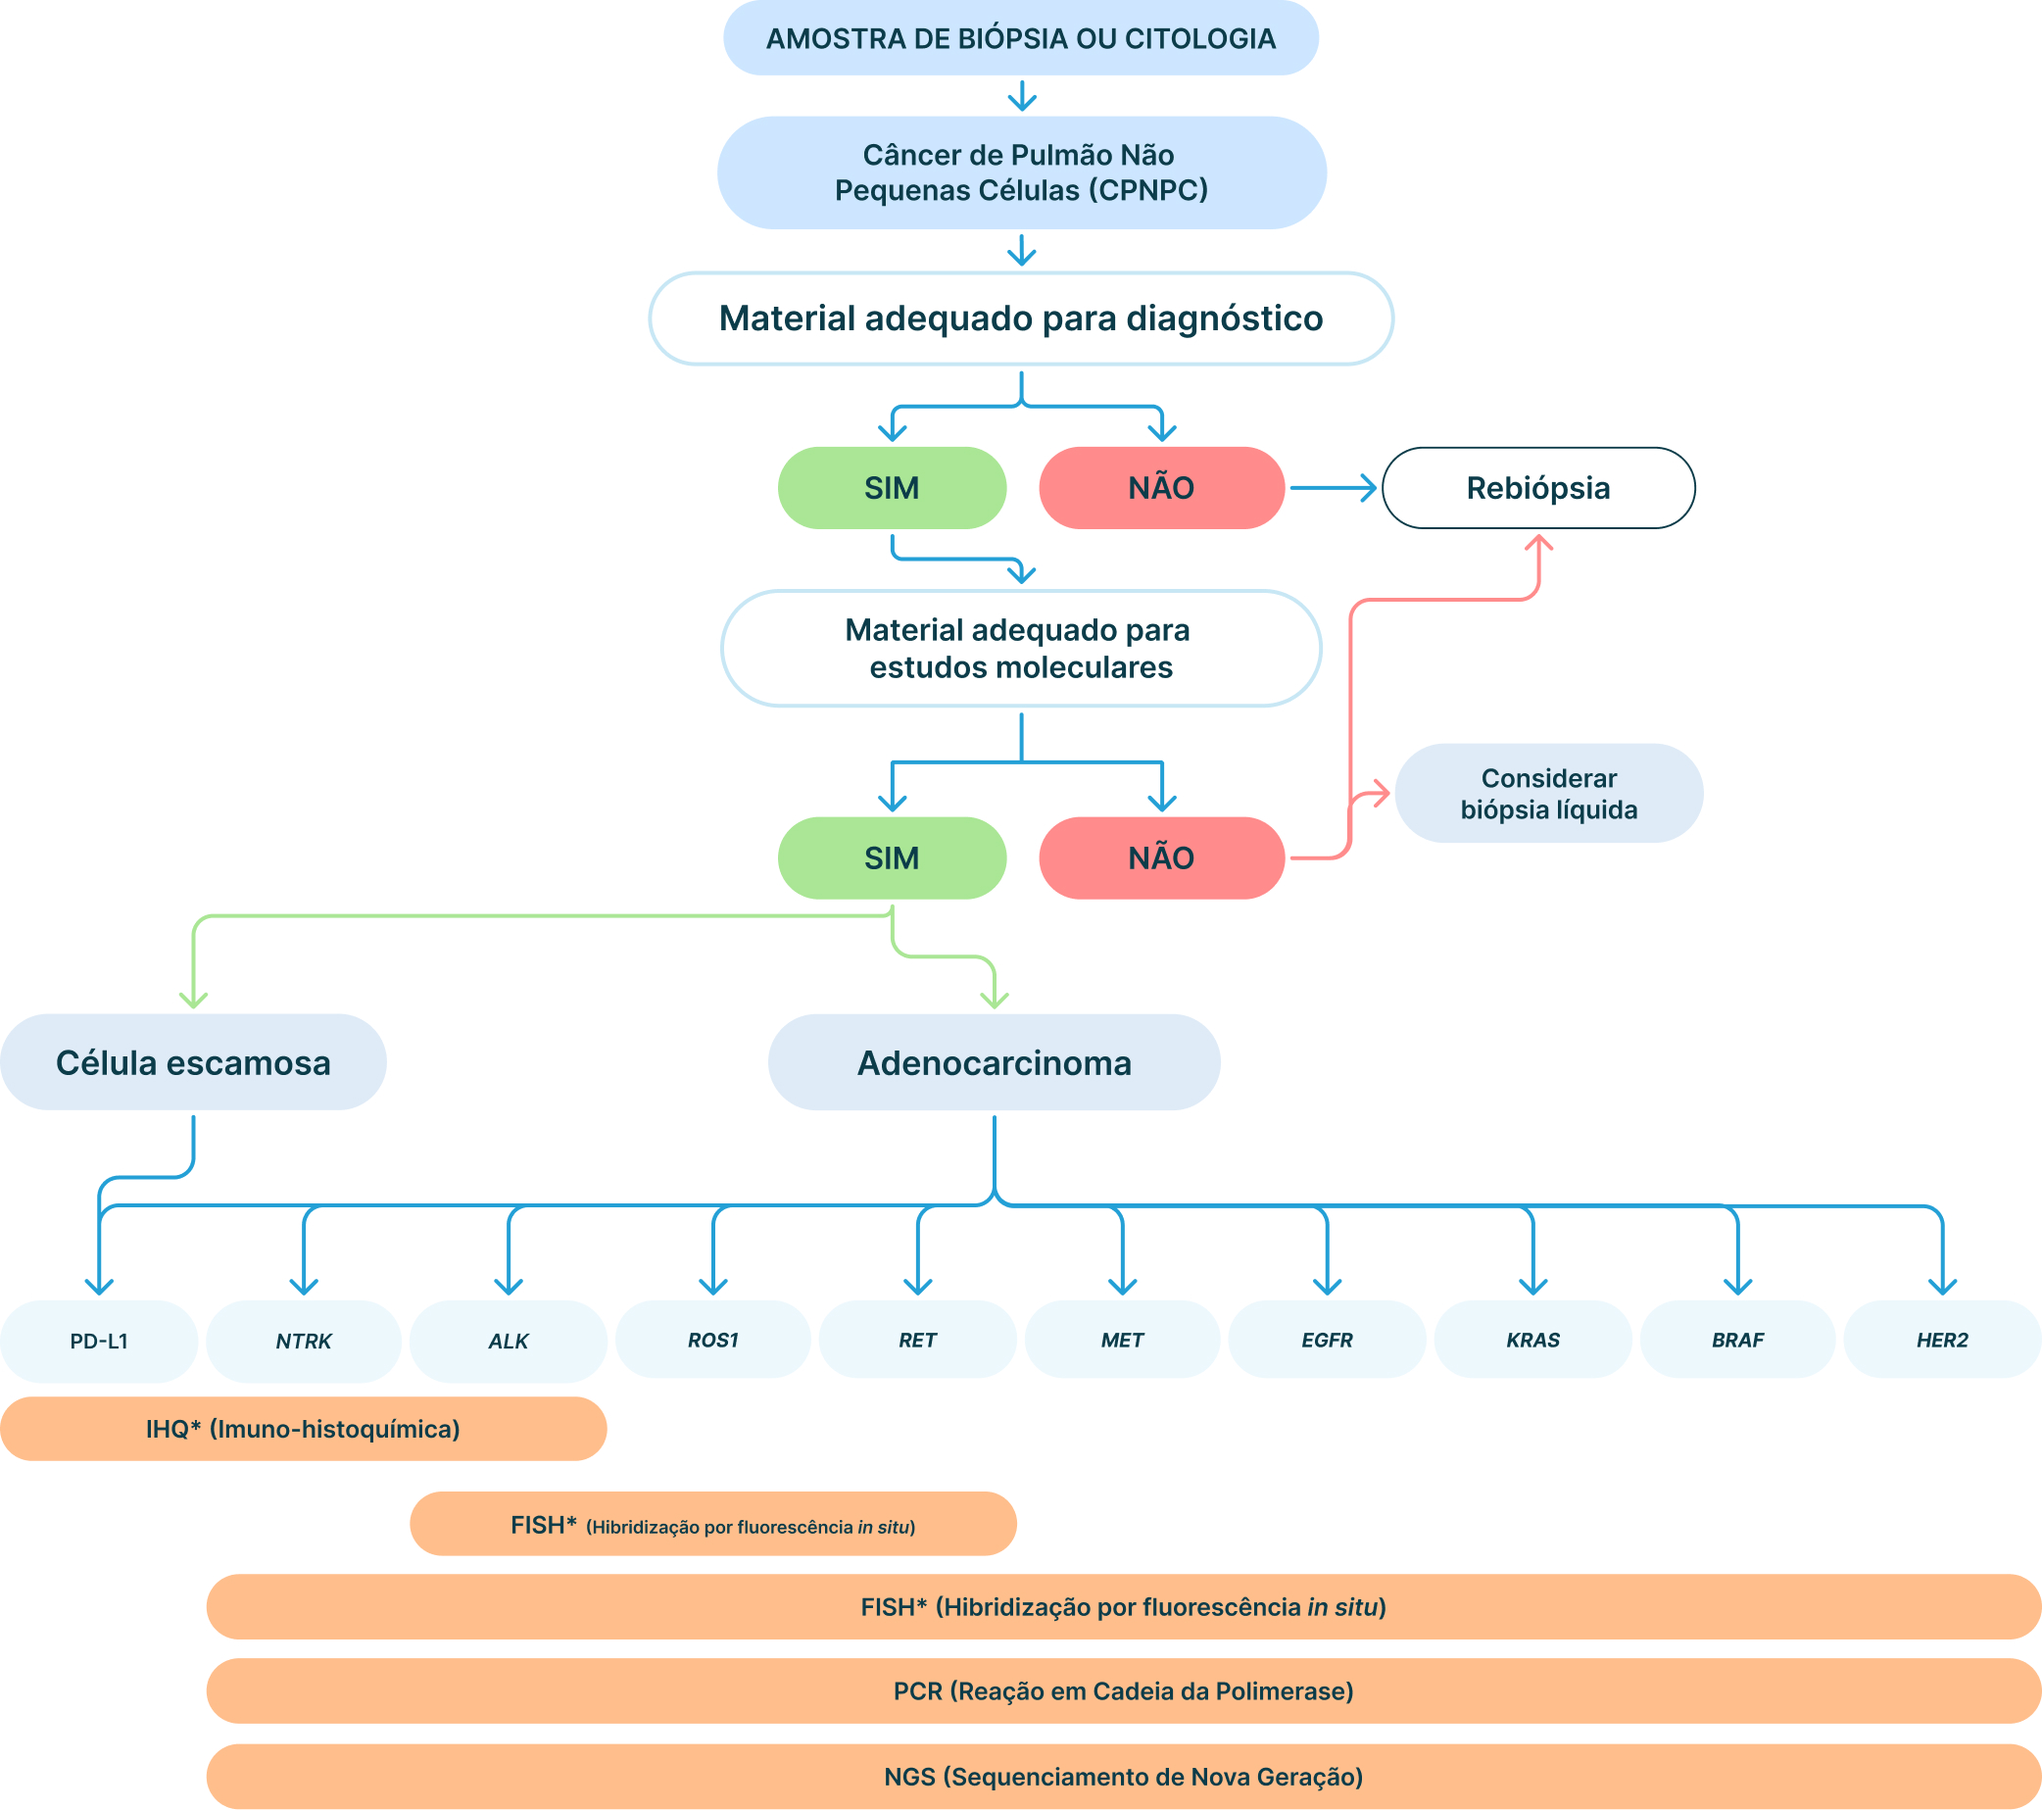
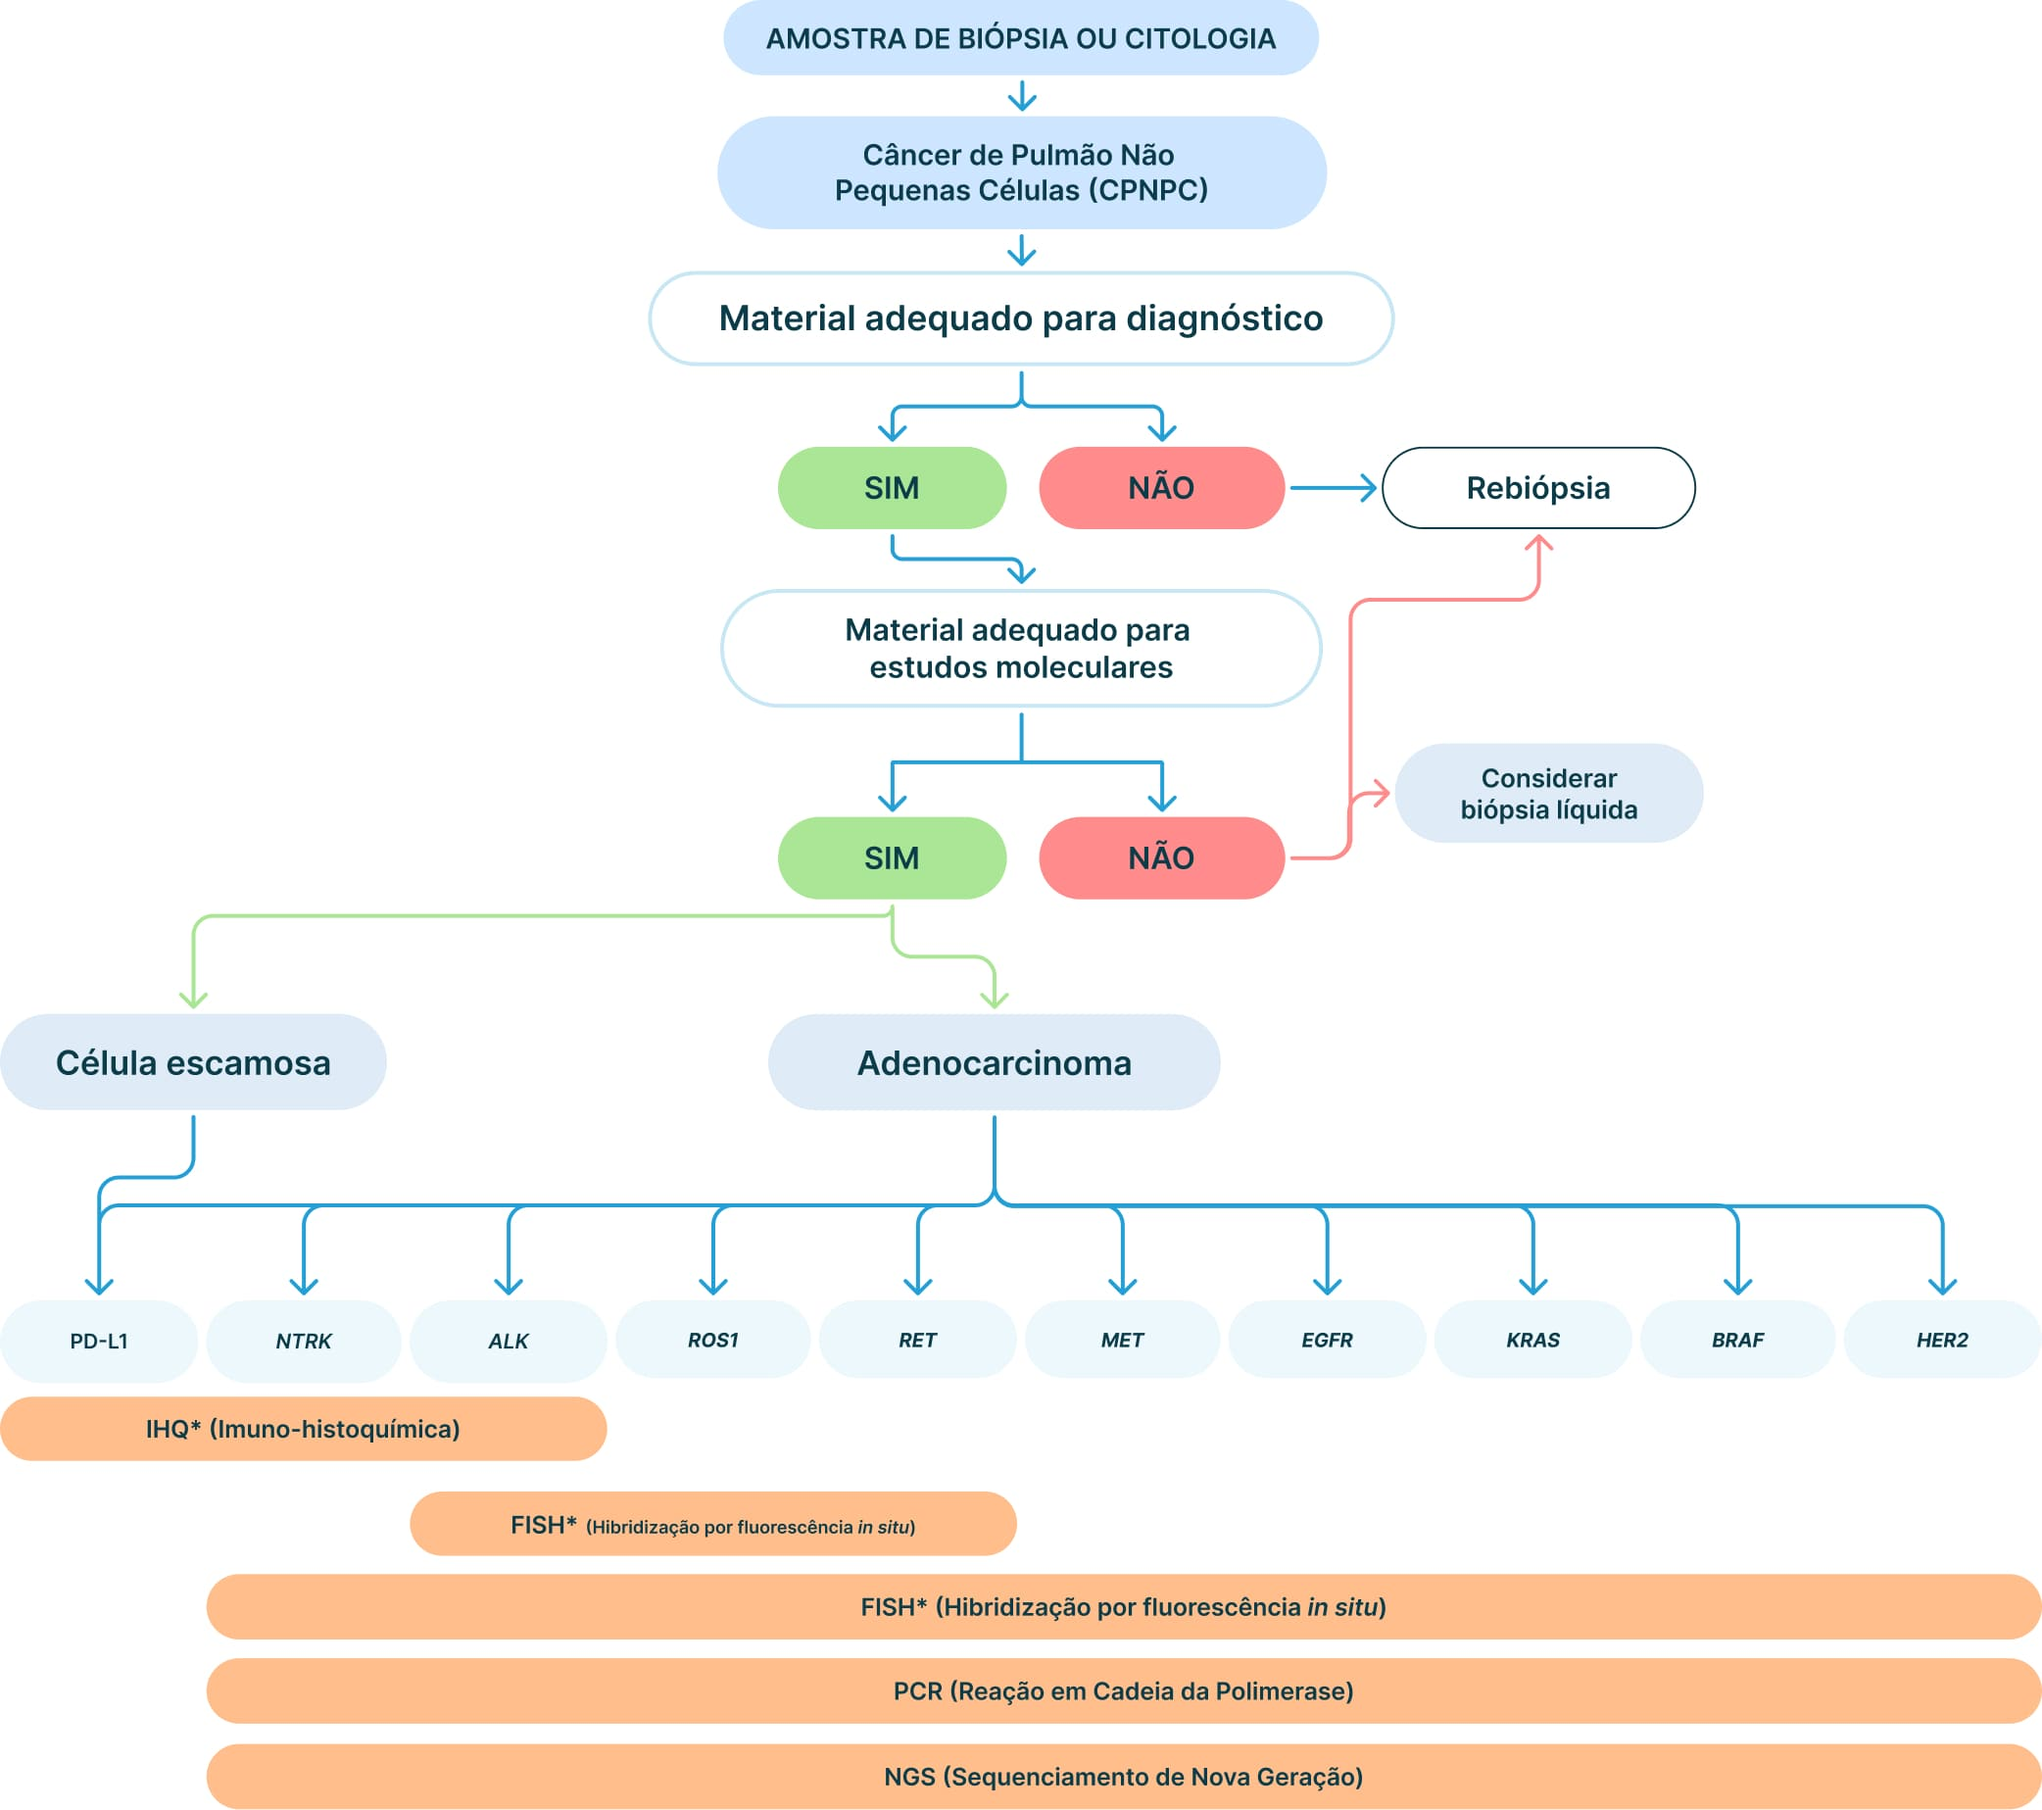
atualização de imagens 4

diff --git a/index.html b/index.html
@@ -365,7 +365,7 @@
                                 sensibilidade e especificidade dos testes.<sup>2,3,18</sup>
                             </p>
 
-                            <img class="s7-iniciais__image" src="assets/amostra.png"
+                            <img class="s7-iniciais__image" src="assets/amostra.jpg"
                                 alt="Fluxo de amostra e testes para tumores iniciais" />
                             <p class="s7-iniciais__ref">Adaptado de Tavora F, et al. 2023.</p>
                         </div>
